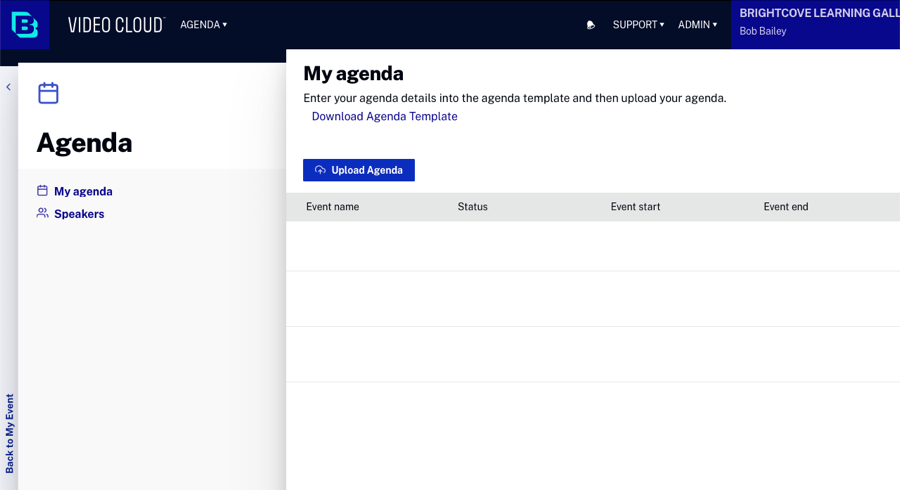
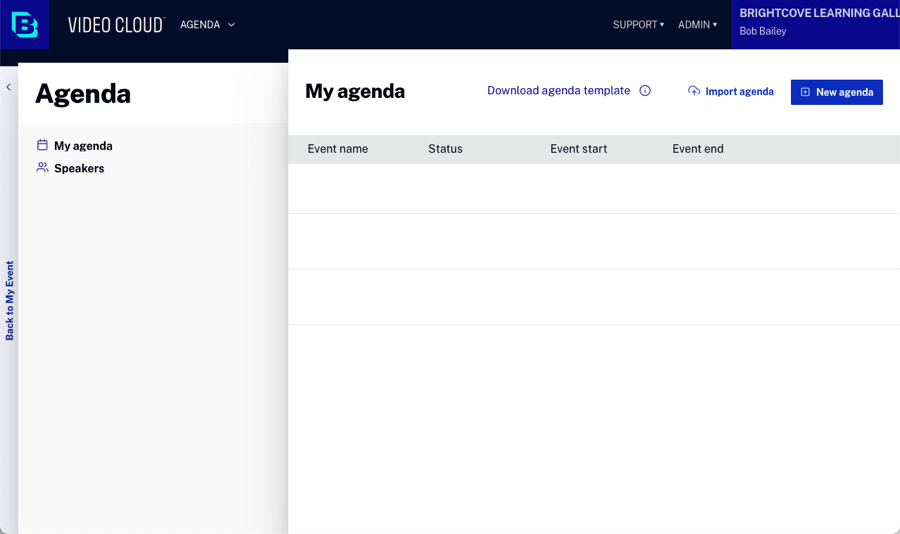
updates

diff --git a/_site/experiences/virtual-event/getting-started-agenda-module.html b/_site/experiences/virtual-event/getting-started-agenda-module.html
@@ -715,14 +715,19 @@ function doGTranslate(lang_pair) {if(lang_pair.value)lang_pair=lang_pair.value;i
     <figure class="bcls-figure"><img class="bcls-image--no-border" alt="" src="/assets/images/experiences/virtual-event/agenda-module-home.png" /></figure>
     <p>From the home page you can:</p>
     <ul>
-      <li><a href="#upload_agenda">Upload an event agenda</a></li>
-      <li><a href="#manage_agenda">Manage the event agenda</a></li>
+      <li><a href="#import_agenda">Import an  agenda file</a></li>
+      <li><a href="#new_agenda">Create a new agenda</a></li>
+      <li><a href="#manage_agenda">Manage the  agenda</a></li>
       <li><a href="#speakers">Manage event speakers</a> </li>
     </ul>
     To return to the Gallery Site Editor from the Agenda module, click the <strong>Back to My Event</strong> link on the left side of the page.</section>
   <section class="bcls-section">
-    <h2 id="upload_agenda">Uploading an event agenda</h2>
-    <p>To initially create an event agenda, an agenda .csv file must be uploaded. For information on uploading an event agenda, see <a href="managing-agenda-virtual-event-experience.html#upload">Uploading an agenda file</a>.</p>
+    <h2 id="import_agenda">Importing an  agenda file</h2>
+    <p>The Agenda module provides the ability to upload an external .csv agenda file  to initially create the event agenda. Once the agenda file is uploaded, it can be edited using the Agenda module. For information on creating an agenda file, see <a href="creating-agenda-virtual-event-experience.html">Creating an Event Agenda File</a>.</p>
+  </section>
+  <section class="bcls-section">
+    <h2 id="new_agenda">Creating a new agenda</h2>
+    <p>To create a new event agenda, click <strong>New agenda</strong> and then click on the event name to start adding sessions. For complete information on creating and editing an event agenda, see <a href="managing-agenda-virtual-event-experience.html">Managing the Event Agenda</a>.</p>
   </section>
   <section class="bcls-section">
     <h2 id="manage_agenda">Managing the event agenda</h2>

diff --git a/experiences/virtual-event/getting-started-agenda-module.html b/experiences/virtual-event/getting-started-agenda-module.html
@@ -13,14 +13,19 @@ layout: staging
     <figure class="bcls-figure"><img class="bcls-image--no-border" alt="" src="/assets/images/experiences/virtual-event/agenda-module-home.png" /></figure>
     <p>From the home page you can:</p>
     <ul>
-      <li><a href="#upload_agenda">Upload an event agenda</a></li>
-      <li><a href="#manage_agenda">Manage the event agenda</a></li>
+      <li><a href="#import_agenda">Import an  agenda file</a></li>
+      <li><a href="#new_agenda">Create a new agenda</a></li>
+      <li><a href="#manage_agenda">Manage the  agenda</a></li>
       <li><a href="#speakers">Manage event speakers</a> </li>
     </ul>
     To return to the Gallery Site Editor from the Agenda module, click the <strong>Back to My Event</strong> link on the left side of the page.</section>
   <section class="bcls-section">
-    <h2 id="upload_agenda">Uploading an event agenda</h2>
-    <p>To initially create an event agenda, an agenda .csv file must be uploaded. For information on uploading an event agenda, see <a href="managing-agenda-virtual-event-experience.html#upload">Uploading an agenda file</a>.</p>
+    <h2 id="import_agenda">Importing an  agenda file</h2>
+    <p>The Agenda module provides the ability to upload an external .csv agenda file  to initially create the event agenda. Once the agenda file is uploaded, it can be edited using the Agenda module. For information on creating an agenda file, see <a href="creating-agenda-virtual-event-experience.html">Creating an Event Agenda File</a>.</p>
+  </section>
+  <section class="bcls-section">
+    <h2 id="new_agenda">Creating a new agenda</h2>
+    <p>To create a new event agenda, click <strong>New agenda</strong> and then click on the event name to start adding sessions. For complete information on creating and editing an event agenda, see <a href="managing-agenda-virtual-event-experience.html">Managing the Event Agenda</a>.</p>
   </section>
   <section class="bcls-section">
     <h2 id="manage_agenda">Managing the event agenda</h2>
